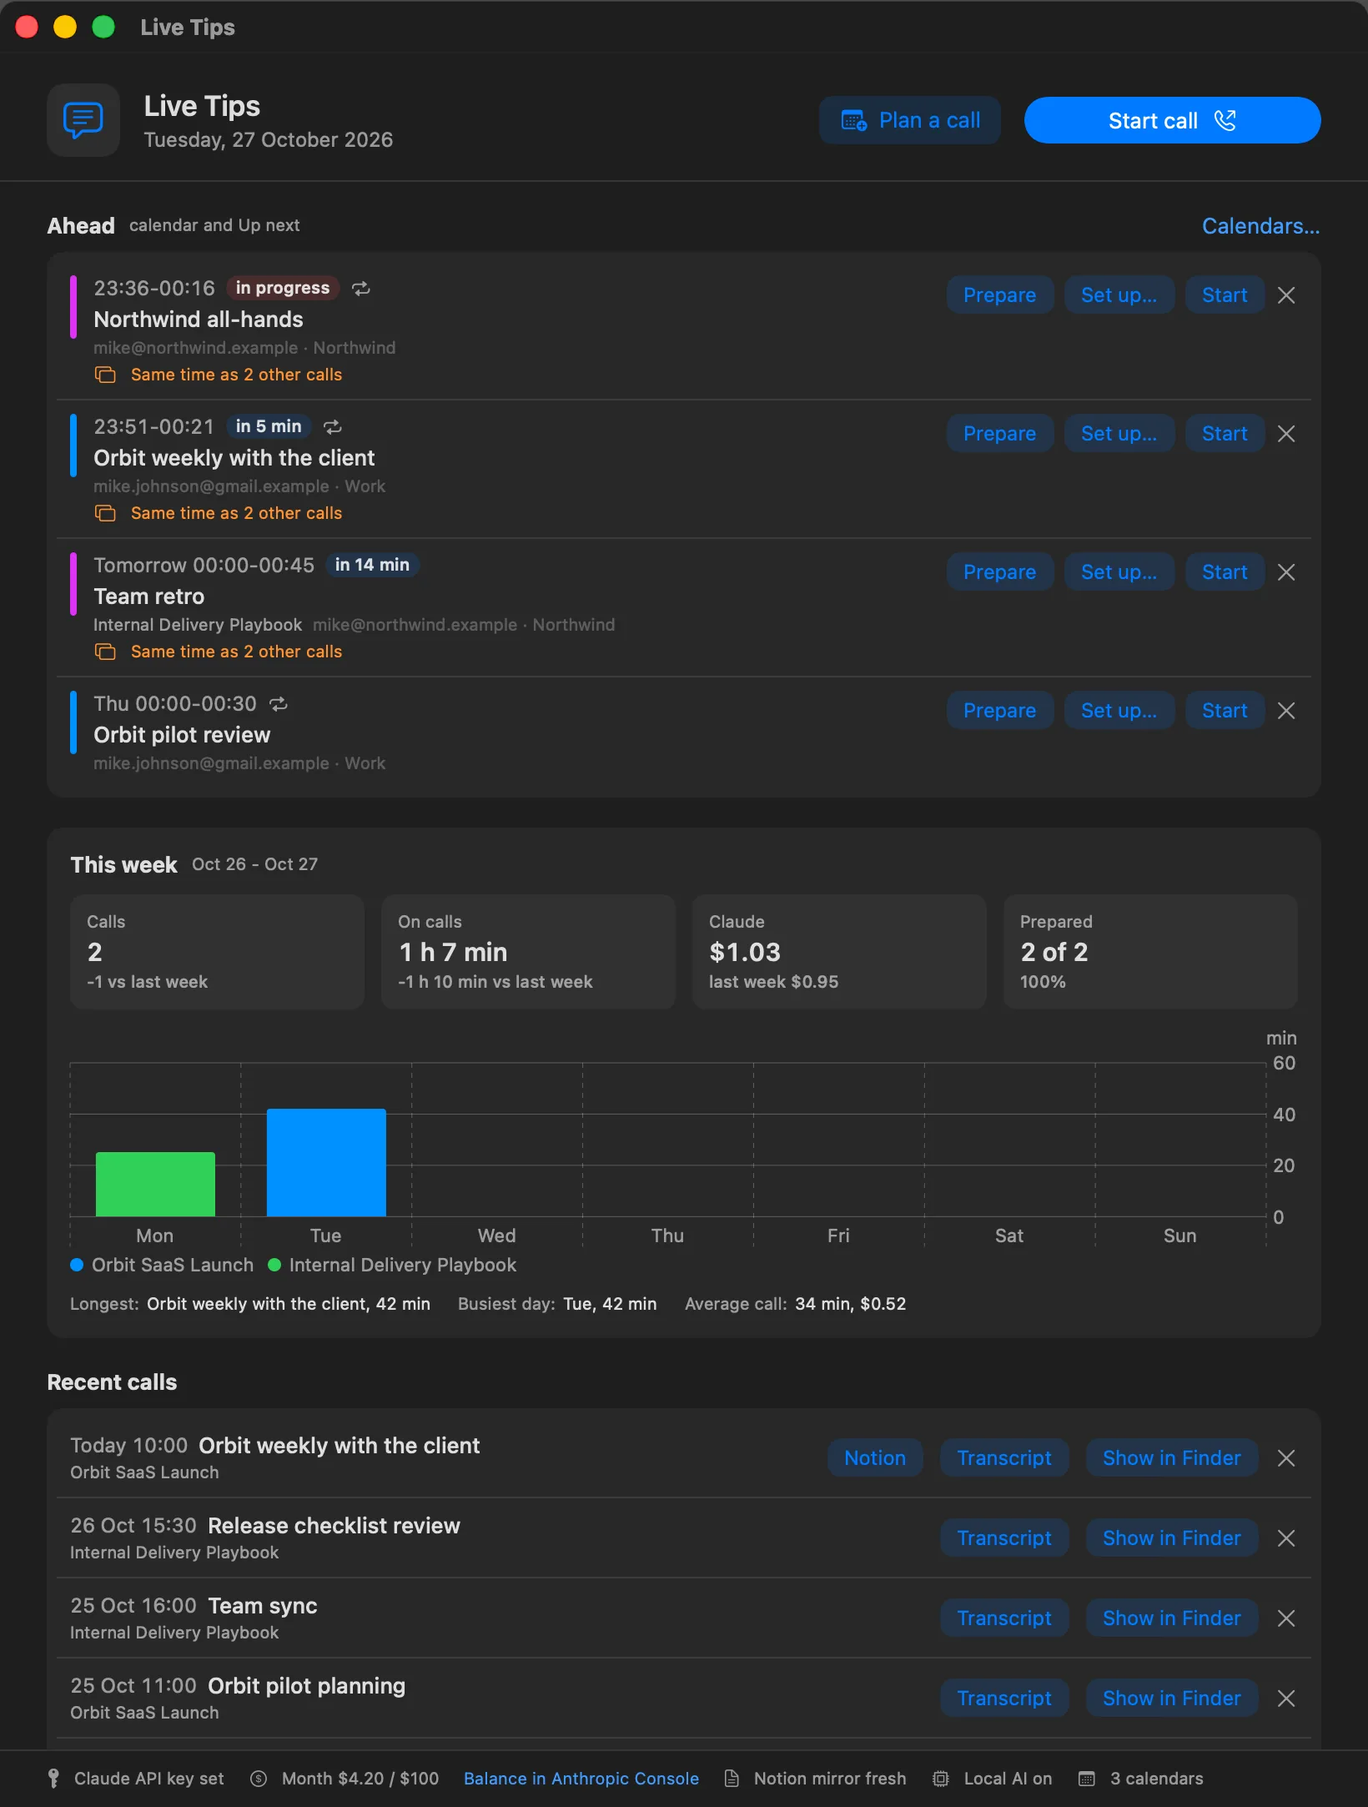
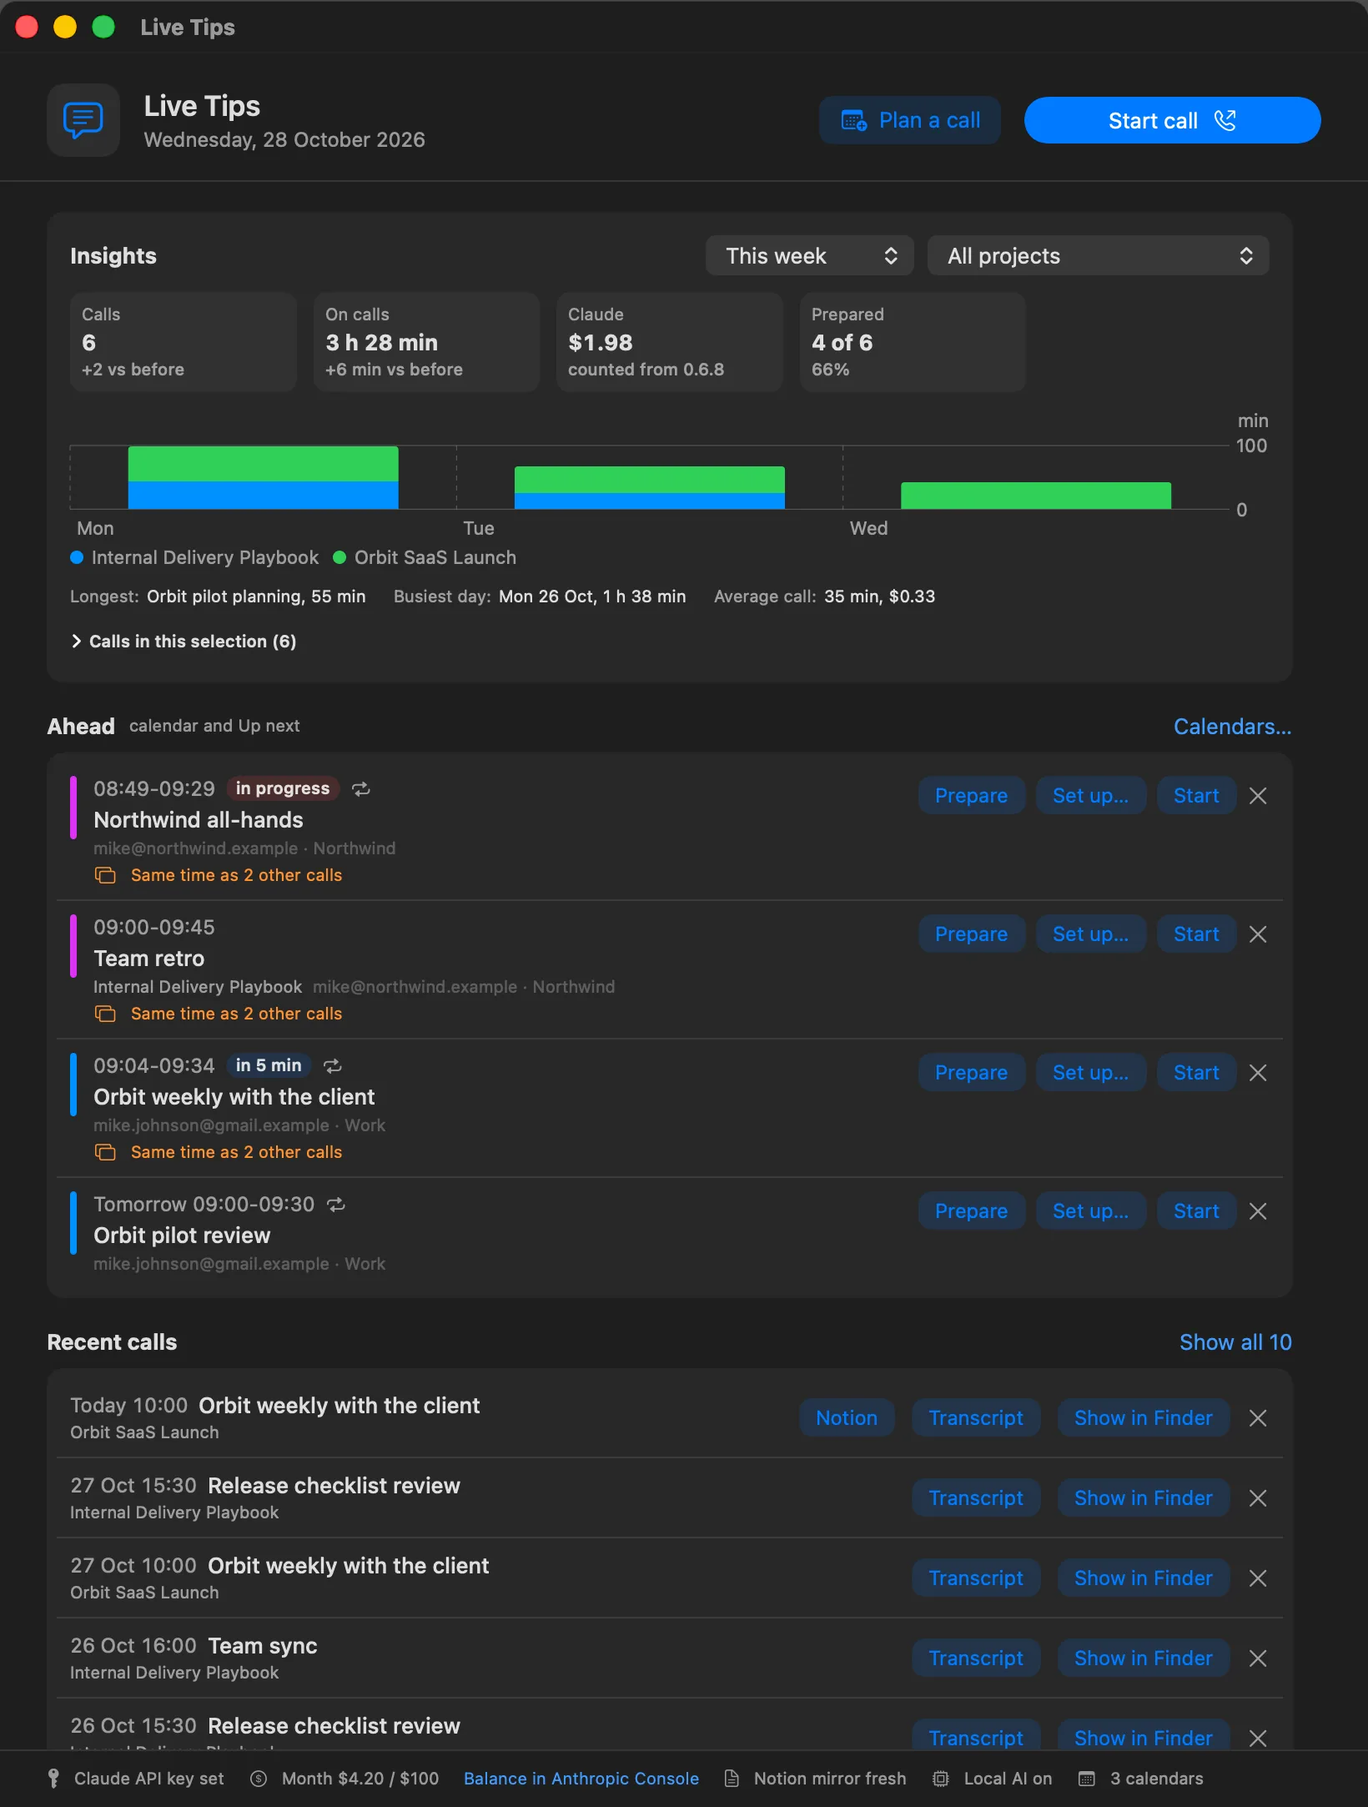
Live Tips 0.7.0: interactive insights and deeper preparation; Home shots
Claude-Session: https://claude.ai/code/session_011gj7yXV1CHodtL8oe3gkkZ

diff --git a/src/content/pages/uk/live-tips.md b/src/content/pages/uk/live-tips.md
@@ -7,7 +7,7 @@ facts:
   - { k: Звук, v: "Лишається на вашому Маку" }
   - { k: Вартість, v: "Застосунок безкоштовний, Claude близько $0.2-0.8 за дзвінок" }
   - { k: Нотатки йдуть у, v: "Notion і папку проєкту" }
-  - { k: Статус, v: "бета 0.6.9" }
+  - { k: Статус, v: "бета 0.7.0" }
 ---
 
 <div class="aimix">
@@ -61,7 +61,7 @@ facts:
 Справжні знімки застосунку на демо-даних. Картинки йдуть за світлою чи темною темою сайту.
 
 <div class="gallery">
-<figure class="ltshot ltshot--wide"><img class="ltshot__img ltshot--dark" src="/live-tips/shots/home-dark.webp" alt="" loading="lazy" decoding="async" /><img class="ltshot__img ltshot--light" src="/live-tips/shots/home-light.webp" alt="" loading="lazy" decoding="async" /><figcaption><b>Home.</b> Дзвінки попереду з календарів і Далі (накладки позначено), цей тиждень (дзвінки, час, витрати на Claude, підготовлені дзвінки, хвилини по днях за проєктами) і проведені дзвінки з Notion, транскриптом і папкою.</figcaption></figure>
+<figure class="ltshot ltshot--wide"><img class="ltshot__img ltshot--dark" src="/live-tips/shots/home-dark.webp" alt="" loading="lazy" decoding="async" /><img class="ltshot__img ltshot--light" src="/live-tips/shots/home-light.webp" alt="" loading="lazy" decoding="async" /><figcaption><b>Home.</b> Дзвінки попереду з календарів і Далі (накладки позначено), Insights за період, проєкт чи воркспейс (дзвінки, час, витрати на Claude, підготовлені дзвінки, хвилини по днях) і проведені дзвінки з Notion, транскриптом і папкою.</figcaption></figure>
 <figure class="ltshot ltshot--wide"><img class="ltshot__img ltshot--dark" src="/live-tips/shots/tips-dark.webp" alt="" loading="lazy" decoding="async" /><img class="ltshot__img ltshot--light" src="/live-tips/shots/tips-light.webp" alt="" loading="lazy" decoding="async" /><figcaption><b>На дзвінку.</b> Транскрипт з іменами спікерів (Команда чи Клієнт), що на вас, підсумок дзвінка, відповіді на ваші питання і кнопка Help.</figcaption></figure>
 <figure class="ltshot"><img class="ltshot__img ltshot--dark" src="/live-tips/shots/start-call-dark.webp" alt="" loading="lazy" decoding="async" /><img class="ltshot__img ltshot--light" src="/live-tips/shots/start-call-light.webp" alt="" loading="lazy" decoding="async" /><figcaption><b>Start call.</b> Проєкт, назва і час дзвінка, аудиторія, тип і мови, що важливо на цьому дзвінку і які папки прочитати, Prepare now.</figcaption></figure>
 <figure class="ltshot"><img class="ltshot__img ltshot--dark" src="/live-tips/shots/plan-call-dark.webp" alt="" loading="lazy" decoding="async" /><img class="ltshot__img ltshot--light" src="/live-tips/shots/plan-call-light.webp" alt="" loading="lazy" decoding="async" /><figcaption><b>Далі.</b> Під час дзвінка плануйте наступний: налаштуйте і підготуйте зараз, перейдіть на нього, коли цей закінчиться.</figcaption></figure>
@@ -75,7 +75,7 @@ facts:
 
 ## Home і ваші календарі
 
-**Home** це головне вікно аппки: тиждень одним поглядом (дзвінки, час на дзвінках, витрати на Claude, скільки підготовлено, хвилини по днях за проєктами), дзвінок, що йде зараз, дзвінки попереду з календарів і зі списку Далі з їхньою підготовкою, і проведені дзвінки зі сторінкою в Notion, транскриптом і папкою (прибрати зі списку можна ×; файли лишаються). Внизу: ключ Claude, витрати за місяць проти ліміту, копія Notion, локальний AI і календарі. Показуєте Home колегам? Settings > General ховає ваші цифри.
+**Home** це головне вікно аппки: Insights за будь-який період, проєкт чи воркспейс (дзвінки, час на дзвінках, витрати на Claude, скільки підготовлено, хвилини по днях за проєктами; клік по дню показує цей день), дзвінок, що йде зараз, дзвінки попереду з календарів і зі списку Далі з їхньою підготовкою, і проведені дзвінки зі сторінкою в Notion, транскриптом і папкою (прибрати зі списку можна ×; файли лишаються). Внизу: ключ Claude, витрати за місяць проти ліміту, копія Notion, локальний AI і календарі. Показуєте Home колегам? Settings > General ховає ваші цифри.
 
 **Календарі через macOS, кілька акаунтів одразу.** Додайте акаунти Google і Microsoft у System Settings > Internet Accounts, потім у Live Tips Settings > Calendars позначте календарі, де ваші дзвінки. Нічого не треба встановлювати і ніде окремо входити; Live Tips лише читає. Дві-три зустрічі на один час це нормально: Home їх позначає, а ви готуєте і запускаєте ту, на яку реально йдете. Регулярна зустріч стартує з налаштувань і тексту "що важливо" її останнього дзвінка, тож ви лише коригуєте.
 

diff --git a/src/content/pages/en/live-tips.md b/src/content/pages/en/live-tips.md
@@ -7,7 +7,7 @@ facts:
   - { k: Audio, v: "Stays on your Mac" }
   - { k: Cost, v: "Free app, about $0.2-0.8 of Claude per call" }
   - { k: Notes go to, v: "Notion and your project folder" }
-  - { k: Status, v: "beta 0.6.9" }
+  - { k: Status, v: "beta 0.7.0" }
 ---
 
 <div class="aimix">
@@ -61,7 +61,7 @@ Both run the same rules and the same recorder, so the tips behave the same way. 
 Real screenshots of the app on demo data. The pictures follow the site's light or dark theme.
 
 <div class="gallery">
-<figure class="ltshot ltshot--wide"><img class="ltshot__img ltshot--dark" src="/live-tips/shots/home-dark.webp" alt="" loading="lazy" decoding="async" /><img class="ltshot__img ltshot--light" src="/live-tips/shots/home-light.webp" alt="" loading="lazy" decoding="async" /><figcaption><b>Home.</b> The calls ahead from your calendars and Up next (overlaps marked), this week (calls, time, Claude spend, prepared calls, minutes per day by project) and the calls already held with Notion, transcript and folder.</figcaption></figure>
+<figure class="ltshot ltshot--wide"><img class="ltshot__img ltshot--dark" src="/live-tips/shots/home-dark.webp" alt="" loading="lazy" decoding="async" /><img class="ltshot__img ltshot--light" src="/live-tips/shots/home-light.webp" alt="" loading="lazy" decoding="async" /><figcaption><b>Home.</b> The calls ahead from your calendars and Up next (overlaps marked), insights for a period, project or workspace (calls, time, Claude spend, prepared calls, minutes per day) and the calls already held with Notion, transcript and folder.</figcaption></figure>
 <figure class="ltshot ltshot--wide"><img class="ltshot__img ltshot--dark" src="/live-tips/shots/tips-dark.webp" alt="" loading="lazy" decoding="async" /><img class="ltshot__img ltshot--light" src="/live-tips/shots/tips-light.webp" alt="" loading="lazy" decoding="async" /><figcaption><b>On the call.</b> The transcript with named speakers (Team or Client), what is on you, the call summary, answers to your questions and the Help button.</figcaption></figure>
 <figure class="ltshot"><img class="ltshot__img ltshot--dark" src="/live-tips/shots/start-call-dark.webp" alt="" loading="lazy" decoding="async" /><img class="ltshot__img ltshot--light" src="/live-tips/shots/start-call-light.webp" alt="" loading="lazy" decoding="async" /><figcaption><b>Start call.</b> The project, the call's name and time, audience, type and languages, what matters on this call and the folders to read, Prepare now.</figcaption></figure>
 <figure class="ltshot"><img class="ltshot__img ltshot--dark" src="/live-tips/shots/plan-call-dark.webp" alt="" loading="lazy" decoding="async" /><img class="ltshot__img ltshot--light" src="/live-tips/shots/plan-call-light.webp" alt="" loading="lazy" decoding="async" /><figcaption><b>Up next.</b> During a call, plan the next one: set it up and prepare it now, switch to it when this call ends.</figcaption></figure>
@@ -75,7 +75,7 @@ Real screenshots of the app on demo data. The pictures follow the site's light o
 
 ## Home and your calendars
 
-**Home** is the app's main window: this week at a glance (calls, time on calls, Claude spend, how many were prepared, minutes per day by project), the call that is live, the calls ahead from your calendars and Up next with their preparation, and the calls already held with their Notion page, transcript and folder (remove one from the list with ×; the files stay). At the bottom: the Claude key, this month's spend against your limit, the Notion copy, local AI and the calendars. Showing Home to colleagues? Settings > General hides your numbers.
+**Home** is the app's main window: insights for any period, project or workspace (calls, time on calls, Claude spend, how many were prepared, minutes per day by project; click a day to see it), the call that is live, the calls ahead from your calendars and Up next with their preparation, and the calls already held with their Notion page, transcript and folder (remove one from the list with ×; the files stay). At the bottom: the Claude key, this month's spend against your limit, the Notion copy, local AI and the calendars. Showing Home to colleagues? Settings > General hides your numbers.
 
 **Calendars through macOS, several accounts at once.** Add your Google and Microsoft accounts in System Settings > Internet Accounts, then Settings > Calendars in Live Tips: tick the calendars that have your calls. Nothing to install and no extra sign-in; Live Tips only reads. Two or three meetings at the same time are normal: Home marks them, and you prepare and start the one you actually go to. A regular meeting starts from the settings and the "what matters" text of its last call, so you only correct them.
 

diff --git a/src/content/pages/uk/changelog.md b/src/content/pages/uk/changelog.md
@@ -12,6 +12,7 @@ facts:
 
 | Версія | Дата | Що змінилось |
 |---|---|---|
+| Live Tips 0.7.0 beta | 2026-10-28 | **Інтерактивні Insights на Home:** період (сьогодні, цей чи минулий тиждень, місяць, 30 днів, свої дати) і проєкт чи воркспейс, клік по дню на графіку, дзвінки вибірки. **Глибша підготовка:** останні 3 дзвінки тієї самої зустрічі читаються повністю, а бриф має розділ Previous meetings (що обговорювали, питання і чи на них відповіли, відкриті пункти, action items з відповідальними і статусом). У вузькому Home Insights зверху і нижчі, у широкому поруч із дзвінками; недавні дзвінки показують 8 і Show all. |
 | Live Tips 0.6.9 beta | 2026-10-27 | **Home першим.** Сайт і аппка відкриваються з Home; у широкому вікні цей тиждень стоїть поруч із дзвінками. **Цифри можна сховати для демо:** Settings > General ховає цифри тижня, графік і місячні витрати. Нові скріни: Home, Prepare. |
 | Live Tips 0.6.8 beta | 2026-10-27 | **Prepare спершу питає:** проєкт чи воркспейс і що важливо на дзвінку, щоб було зрозуміло, з чого робиться підготовка (нова зустріч без проєкту за замовчуванням). **Цей тиждень на Home:** дзвінки, час на дзвінках, витрати на Claude, підготовлені дзвінки, хвилини по днях за проєктами, найдовший дзвінок і найзавантаженіший день. |
 | Live Tips 0.6.7 beta | 2026-10-27 | **Одна мова інтерфейсу всюди.** З англійською заголовки підказок, картина дзвінка, службові рядки і шапка транскрипту теж англійською; перемикач у вікні і Settings це одне налаштування. Готова фраза лишається мовою дзвінка. |

diff --git a/src/content/pages/en/changelog.md b/src/content/pages/en/changelog.md
@@ -12,6 +12,7 @@ facts:
 
 | Version | Date | What changed |
 |---|---|---|
+| Live Tips 0.7.0 beta | 2026-10-28 | **Interactive insights on Home:** choose the period (today, this or last week, this month, 30 days, your dates) and a project or workspace, click a day in the chart to see it, open the calls of the selection. **Deeper preparation:** the last 3 calls of the same meeting are read in full, and the brief gets a Previous meetings section (what was discussed, questions and whether they were answered, open items, action items with owners and status). A narrow Home shows insights on top, lower; a wide one next to the calls; recent calls show 8 with Show all. |
 | Live Tips 0.6.9 beta | 2026-10-27 | **Home first.** The site and the app open on Home; a wide Home puts this week next to the calls. **Numbers off for a demo:** Settings > General hides this week's numbers, the chart and the monthly spend. New screenshots: Home, Prepare. |
 | Live Tips 0.6.8 beta | 2026-10-27 | **Prepare asks first:** the project or workspace and what matters on the call, so it is clear what the preparation is based on (a new meeting has no default project). **This week on Home:** calls, time on calls, Claude spend, prepared calls, minutes per day by project, the longest call and the busiest day. |
 | Live Tips 0.6.7 beta | 2026-10-27 | **One interface language everywhere.** With English chosen, tip headings, the call picture, service lines and the header of the transcript are English too; the window switch and Settings are one setting. The ready phrase stays in the call's language. |
